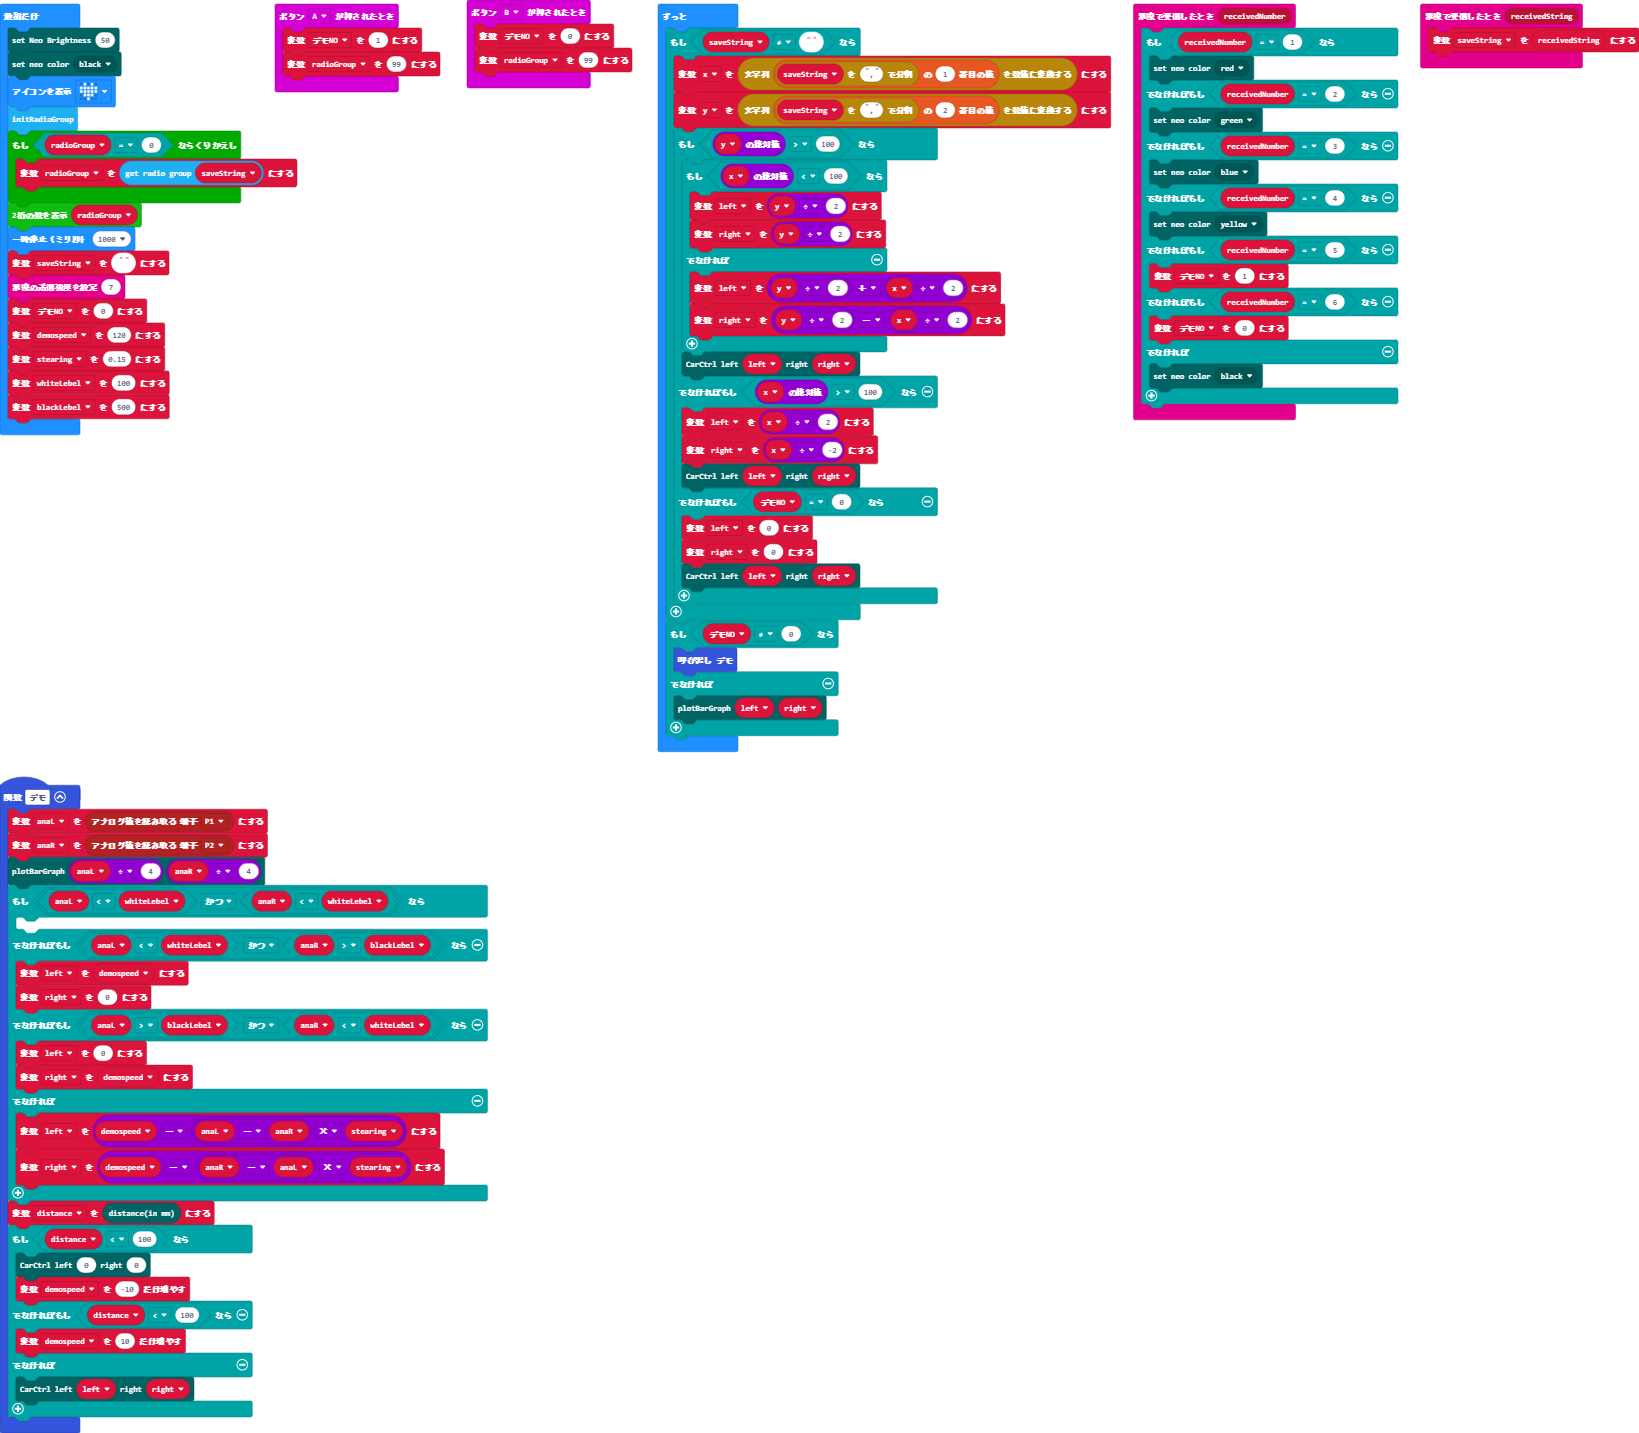
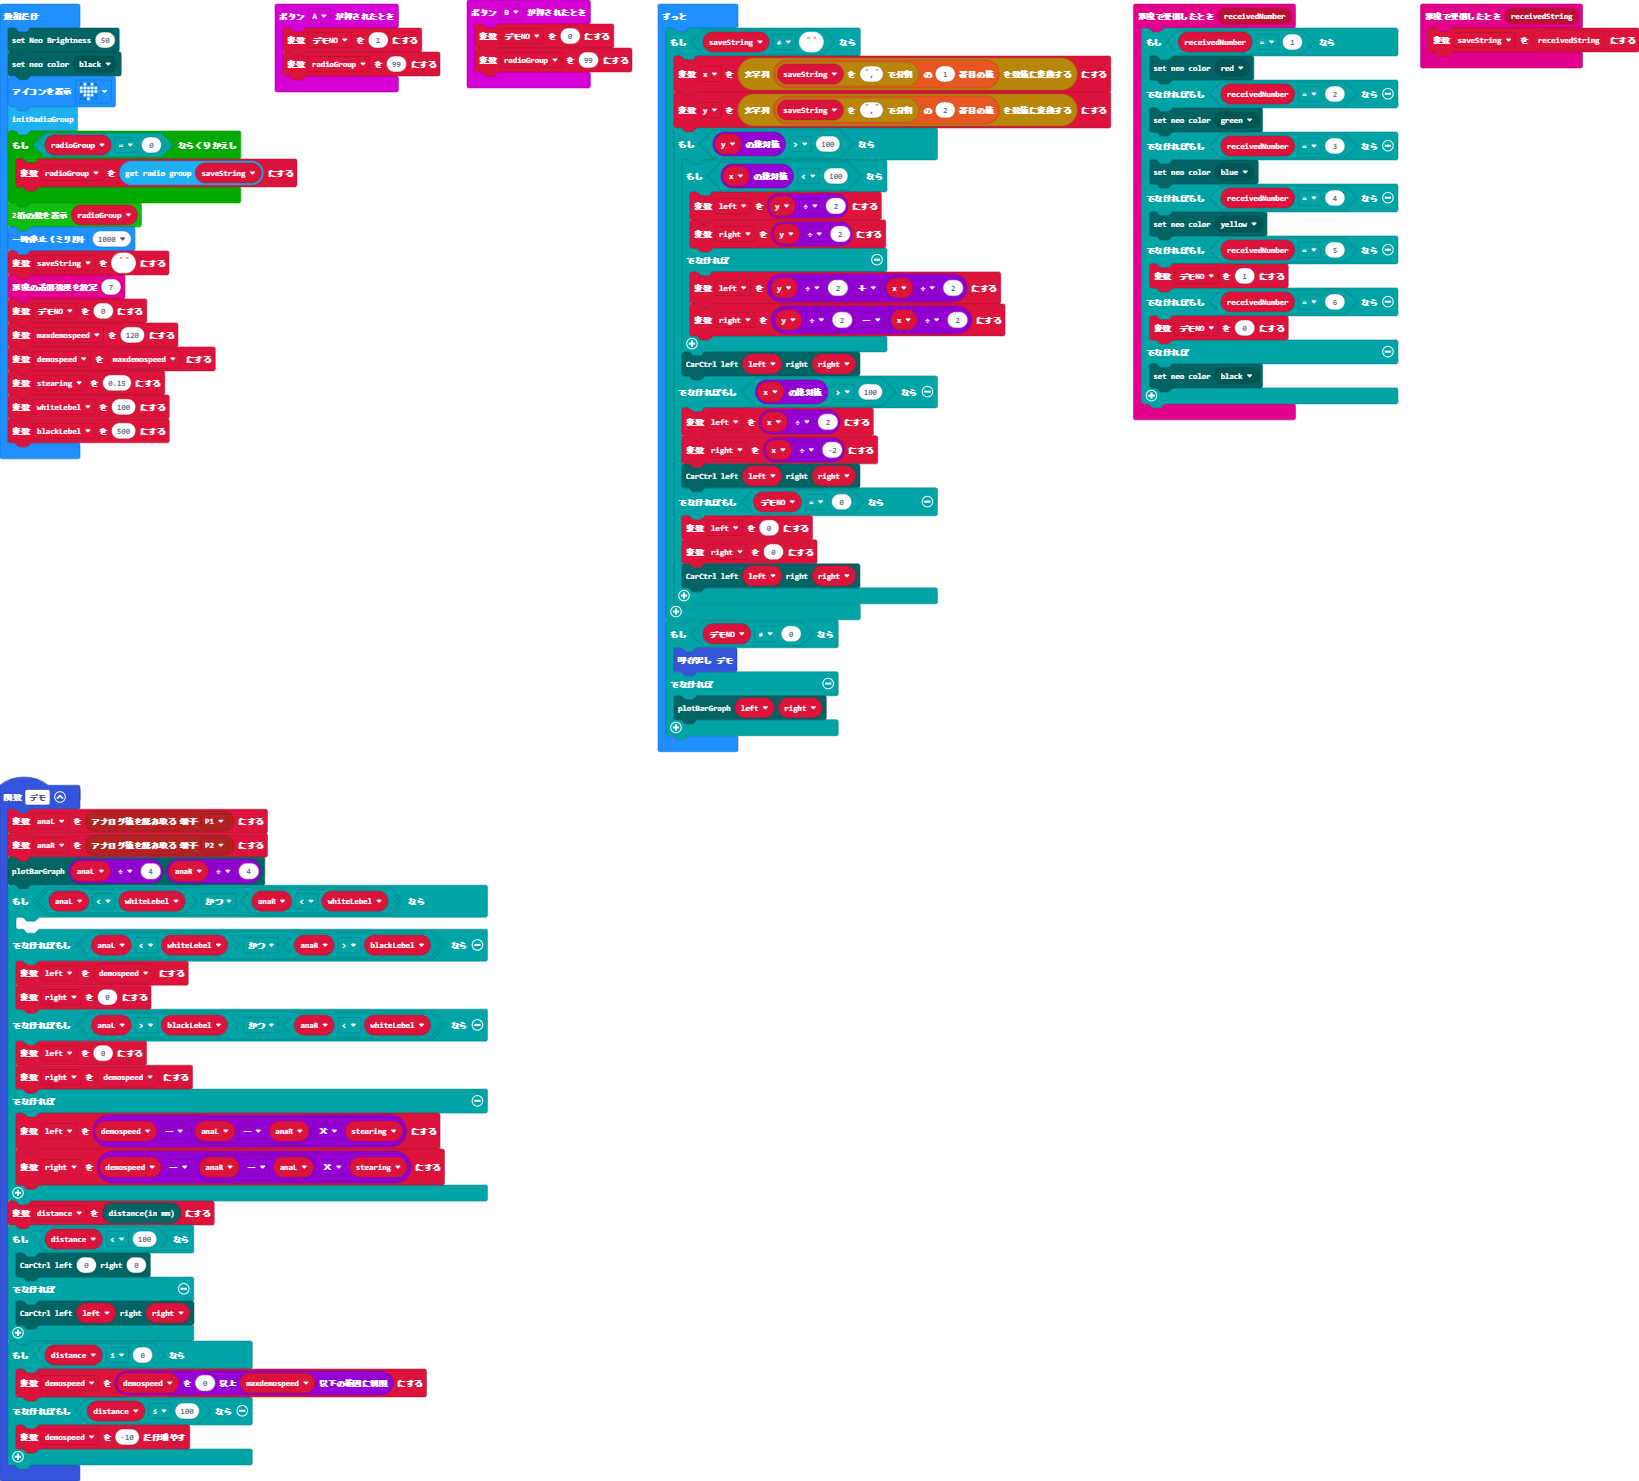
更新 main.blocks, main.ts

diff --git a/main.ts b/main.ts
@@ -17,11 +17,13 @@ function デモ () {
     distance = porocar.getDistance()
     if (distance < 100) {
         porocar.carCtrl(0, 0)
-        demospeed += -10
-    } else if (distance < 100) {
-        demospeed += 10
     } else {
         porocar.carCtrl(left, right)
+    }
+    if (distance <= 0) {
+        demospeed = Math.constrain(demospeed, 0, maxdemospeed)
+    } else if (distance <= 100) {
+        demospeed += -10
     }
 }
 radio.onReceivedNumber(function (receivedNumber) {
@@ -63,6 +65,7 @@ let blackLebel = 0
 let whiteLebel = 0
 let stearing = 0
 let demospeed = 0
+let maxdemospeed = 0
 let デモNO = 0
 let saveString = ""
 let radioGroup = 0
@@ -78,7 +81,8 @@ basic.pause(1000)
 saveString = ""
 radio.setTransmitPower(7)
 デモNO = 0
-demospeed = 120
+maxdemospeed = 120
+demospeed = maxdemospeed
 stearing = 0.15
 whiteLebel = 100
 blackLebel = 500
